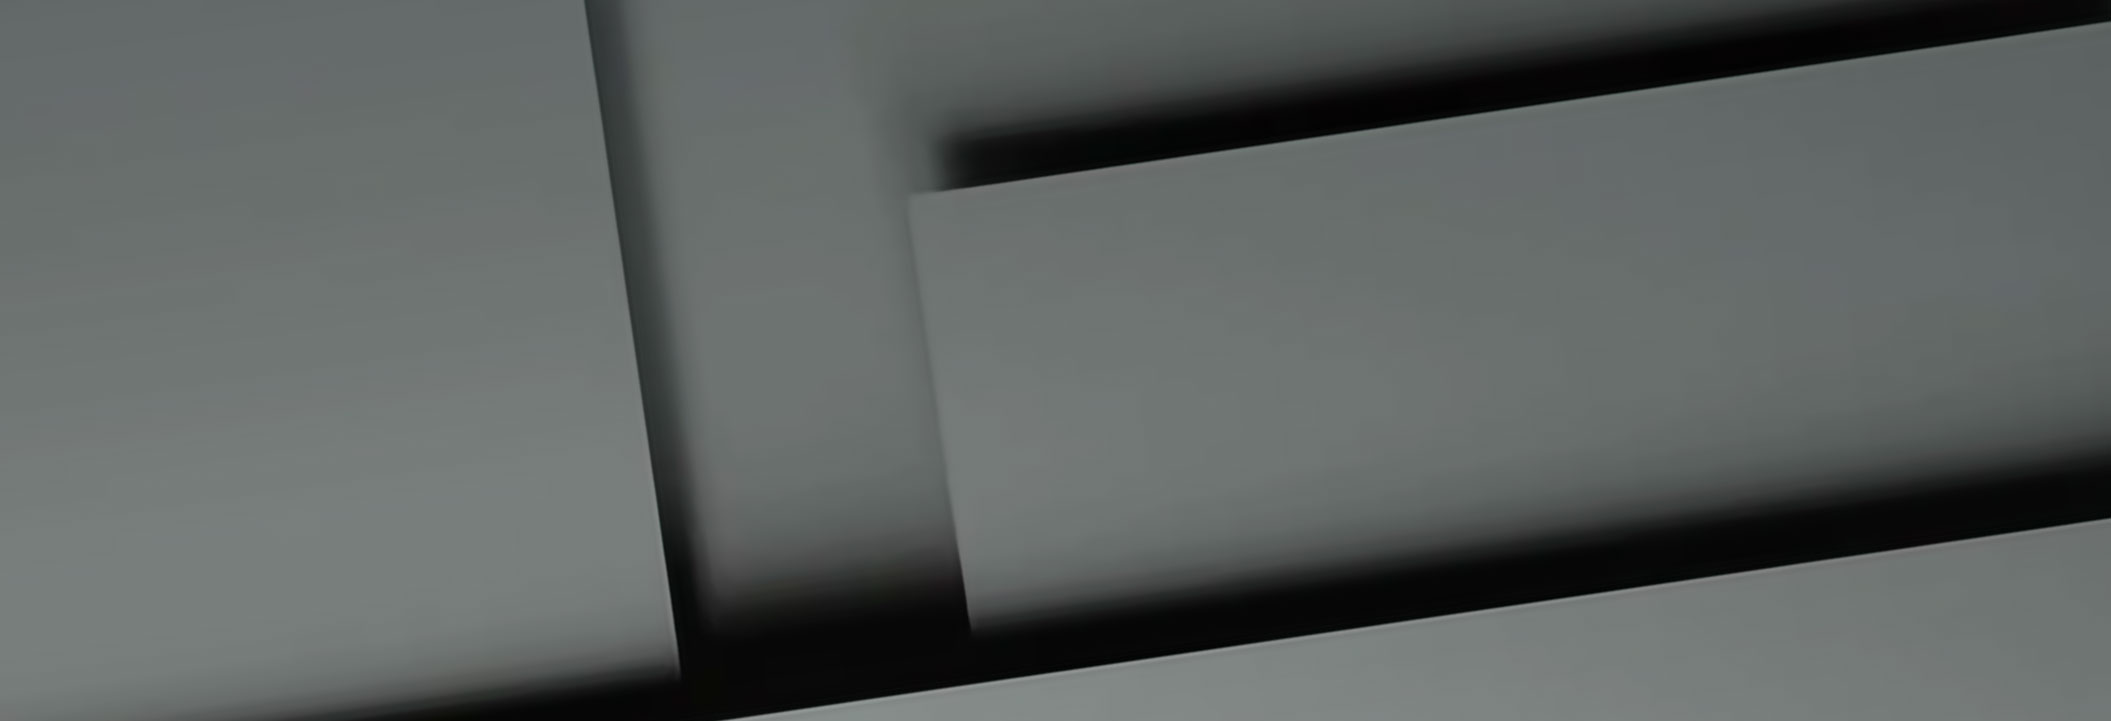
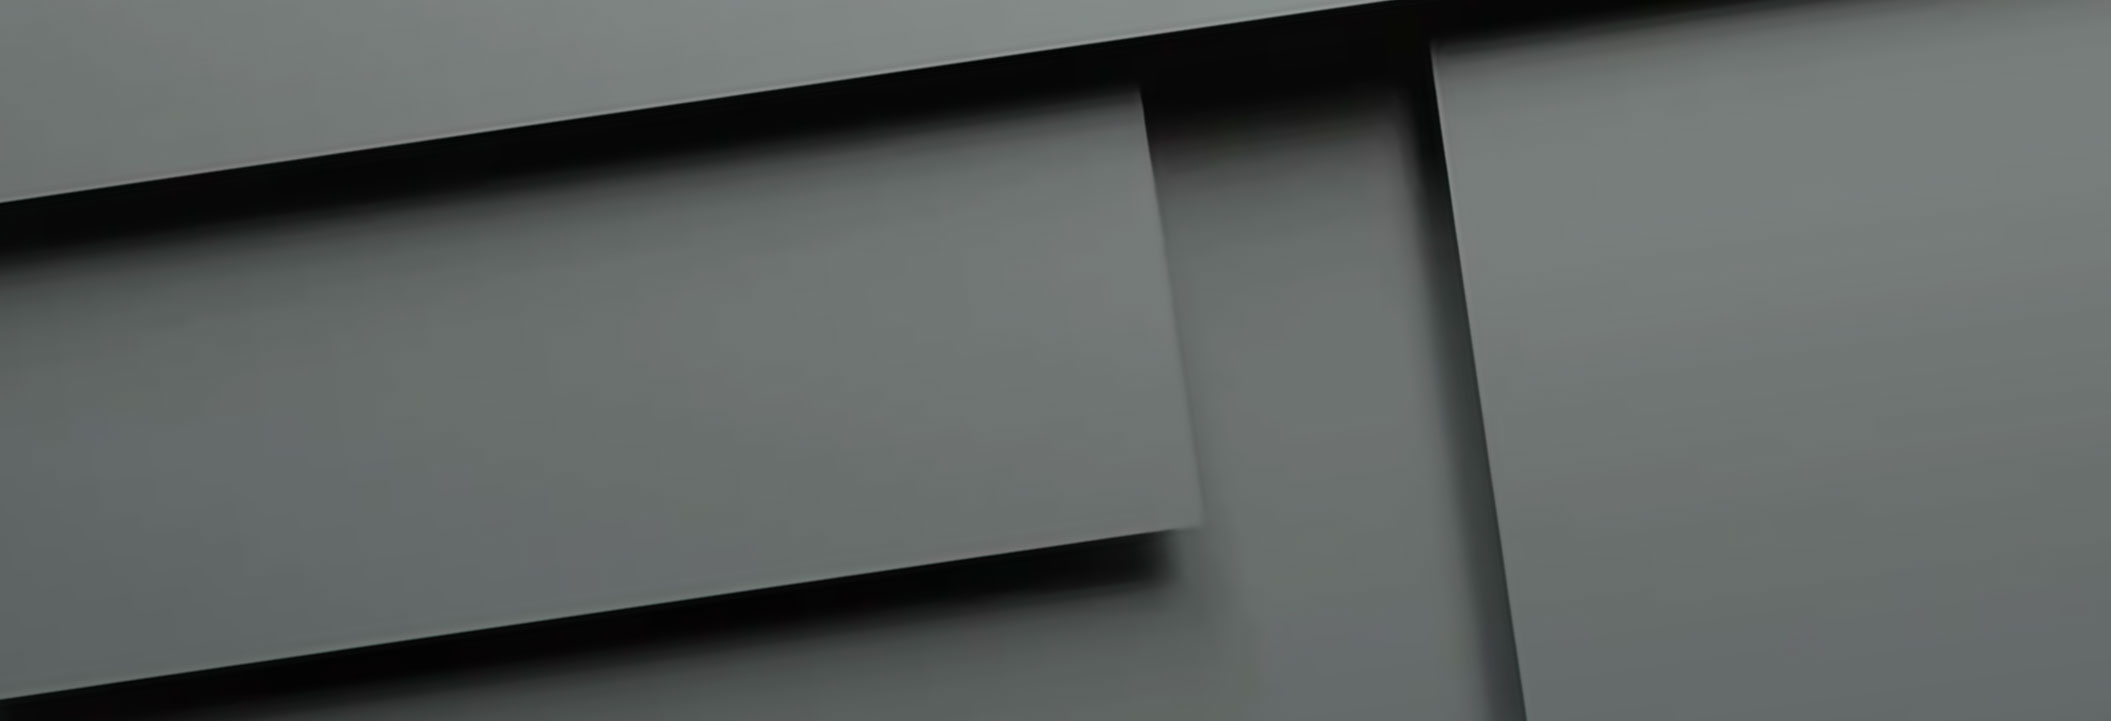
header tweaks

diff --git a/src/app/services/page.tsx b/src/app/services/page.tsx
@@ -79,8 +79,13 @@ export default async function ServicesPage() {
               Our <span className="text-primary">Services</span>
             </>
           }
-          description="Comprehensive digital transformation solutions across three key areas that drive
-              measurable business impact."
+          description={
+            <>
+              Comprehensive digital transformation solutions across three key areas
+              <br />
+              that drive measurable business impact.
+            </>
+          }
           image="/img/services_bg.jpg"
         />
 

diff --git a/src/app/blog/page.tsx b/src/app/blog/page.tsx
@@ -30,8 +30,10 @@ export default async function BlogPage() {
         }
         description={
           <>
-            Expert perspectives on digital transformation, AI implementation, and business
-            optimization from the #sharp team.
+            Expert perspectives on digital transformation, AI implementation,
+            <br />
+            and business optimization from the{' '}
+            <span style={{ color: 'var(--primaryColor)' }}>#sharp</span> team.
           </>
         }
         image="/img/blog_bg.jpg"

diff --git a/src/app/contact/page.tsx b/src/app/contact/page.tsx
@@ -24,8 +24,8 @@ export default function ContactPage() {
         }
         description={
           <>
-            Ready to start your digital transformation journey? We&apos;re here to help you succeed
-            with expert guidance and proven strategies.
+            Ready to start your digital transformation journey? <br />
+            We&apos;re here to help you succeed with expert guidance and proven strategies.
           </>
         }
         image="/img/contact_bg.jpg"

diff --git a/src/app/globals.css b/src/app/globals.css
@@ -137,7 +137,7 @@
 
   .text-xl {
     font-size: 1.22rem;
-    line-height: 1.42;
+    line-height: 1.485;
     font-weight: 300;
   }
 
@@ -161,7 +161,7 @@
     width: 100%;
     height: 100%;
     object-fit: cover;
-    opacity: 0.1;
+    opacity: 0.16;
     object-position: center;
     transform: scale(1);
     transition: transform 20s cubic-bezier(0.08, 0, 0.83, 1);